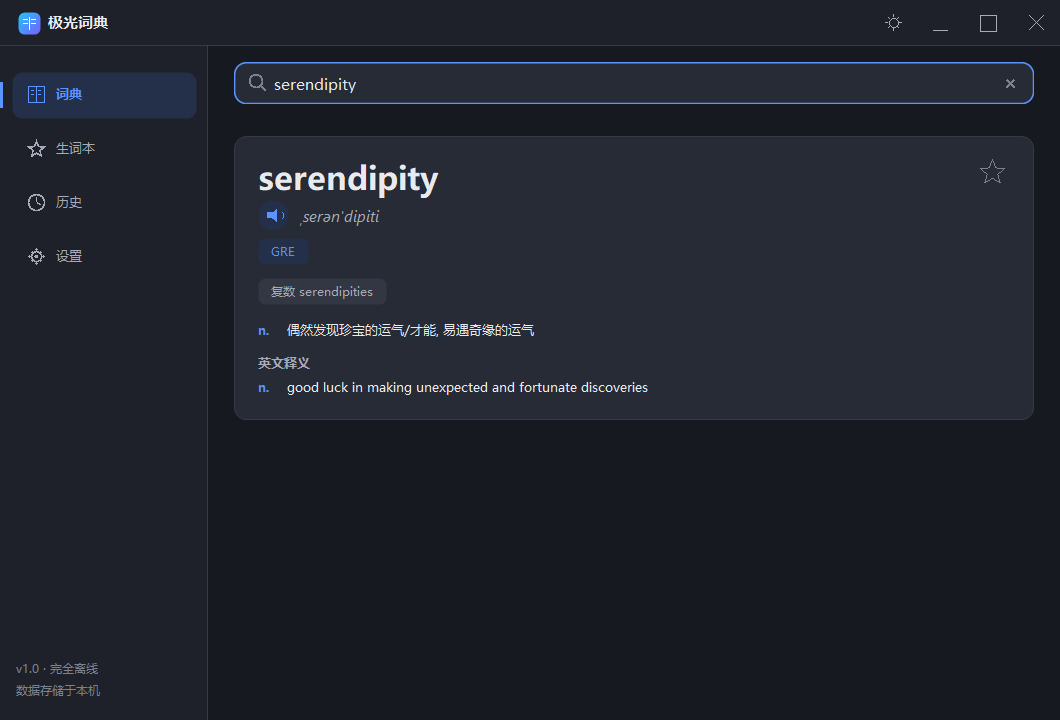
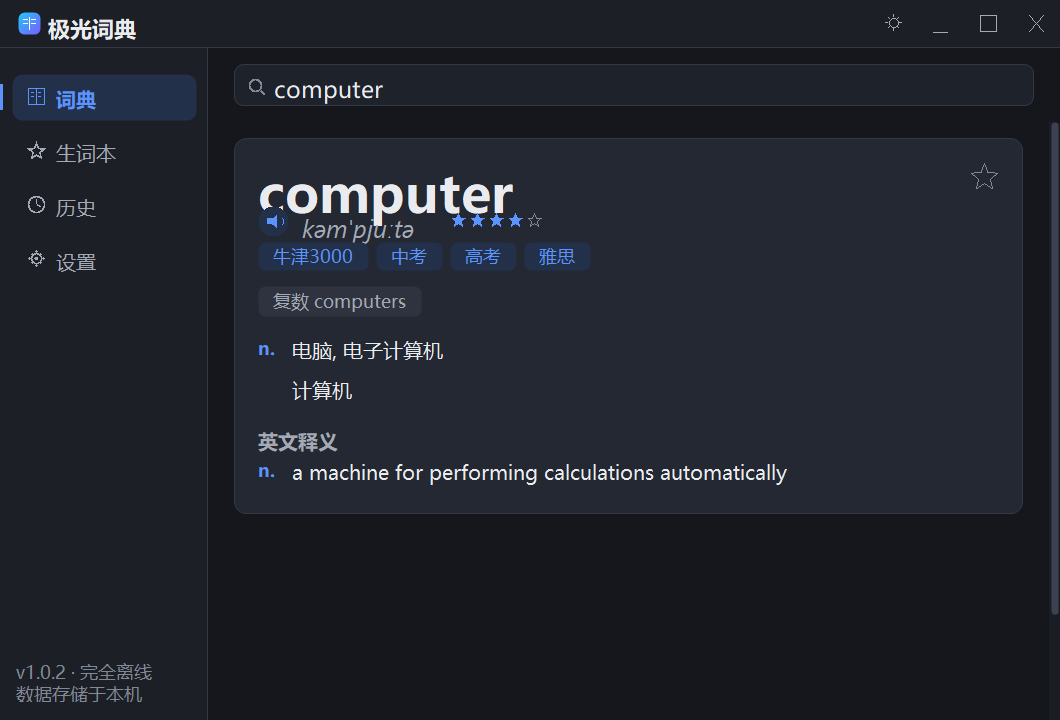
发布 v1.0.2：更新产品截图与版本说明

diff --git a/index.html b/index.html
@@ -164,7 +164,7 @@
 <header class="hero">
   <div class="glow"></div>
   <div class="wrap">
-    <span class="badge"><span class="dot"></span>v1.0.1 现已发布 · Windows 10 / 11</span>
+    <span class="badge"><span class="dot"></span>v1.0.2 现已发布 · Windows 10 / 11</span>
     <h1>完全离线的<br><span class="g">英汉 · 汉英桌面词典</span></h1>
     <p class="sub">单文件、免安装、零运行库依赖。内置 326 万英文词条与 12 万中文词条，自研检索内核毫秒响应；在线翻译与自动更新为可选功能、默认关闭，按需一键开启。</p>
     <div class="cta">

diff --git a/README.md b/README.md
@@ -5,7 +5,7 @@
 单文件、免安装、不依赖任何第三方运行库。内置 **326 万英文词条**与 **12 万中文词条**，自研检索内核，毫秒响应；在线翻译与自动更新均为**可选功能、默认关闭**，需要时一键开启。
 
 ![平台](https://img.shields.io/badge/platform-Windows%2010%2F11-3b82f6)
-![版本](https://img.shields.io/badge/version-1.0.1-22d3ee)
+![版本](https://img.shields.io/badge/version-1.0.2-22d3ee)
 ![离线](https://img.shields.io/badge/works%20offline-yes-8b5cf6)
 ![许可](https://img.shields.io/badge/license-Free%20Software-green)
 
@@ -22,7 +22,8 @@
 - **生词本与复习**：收藏生词、闪卡复习，支持导出纯文本与 Anki（TSV）牌组。
 - **离线发音**：英文、中文双语音，基于 Windows 内置语音合成。
 - **快捷取词**：全局热键 `Ctrl+Alt+D`，可选复制后自动查词。
-- **深浅色主题**：自绘界面，浅色 / 深色自由切换。
+- **清爽释义**：可一键隐藏中文释义开头的 [网络] / [计] / [医] 等分类标记，直接显示译文（默认开启）。
+- **深浅色主题**：自绘界面与滚动条，浅色 / 深色自由切换，滚动条颜色随主题变化。
 
 ## 📥 下载与安装
 
